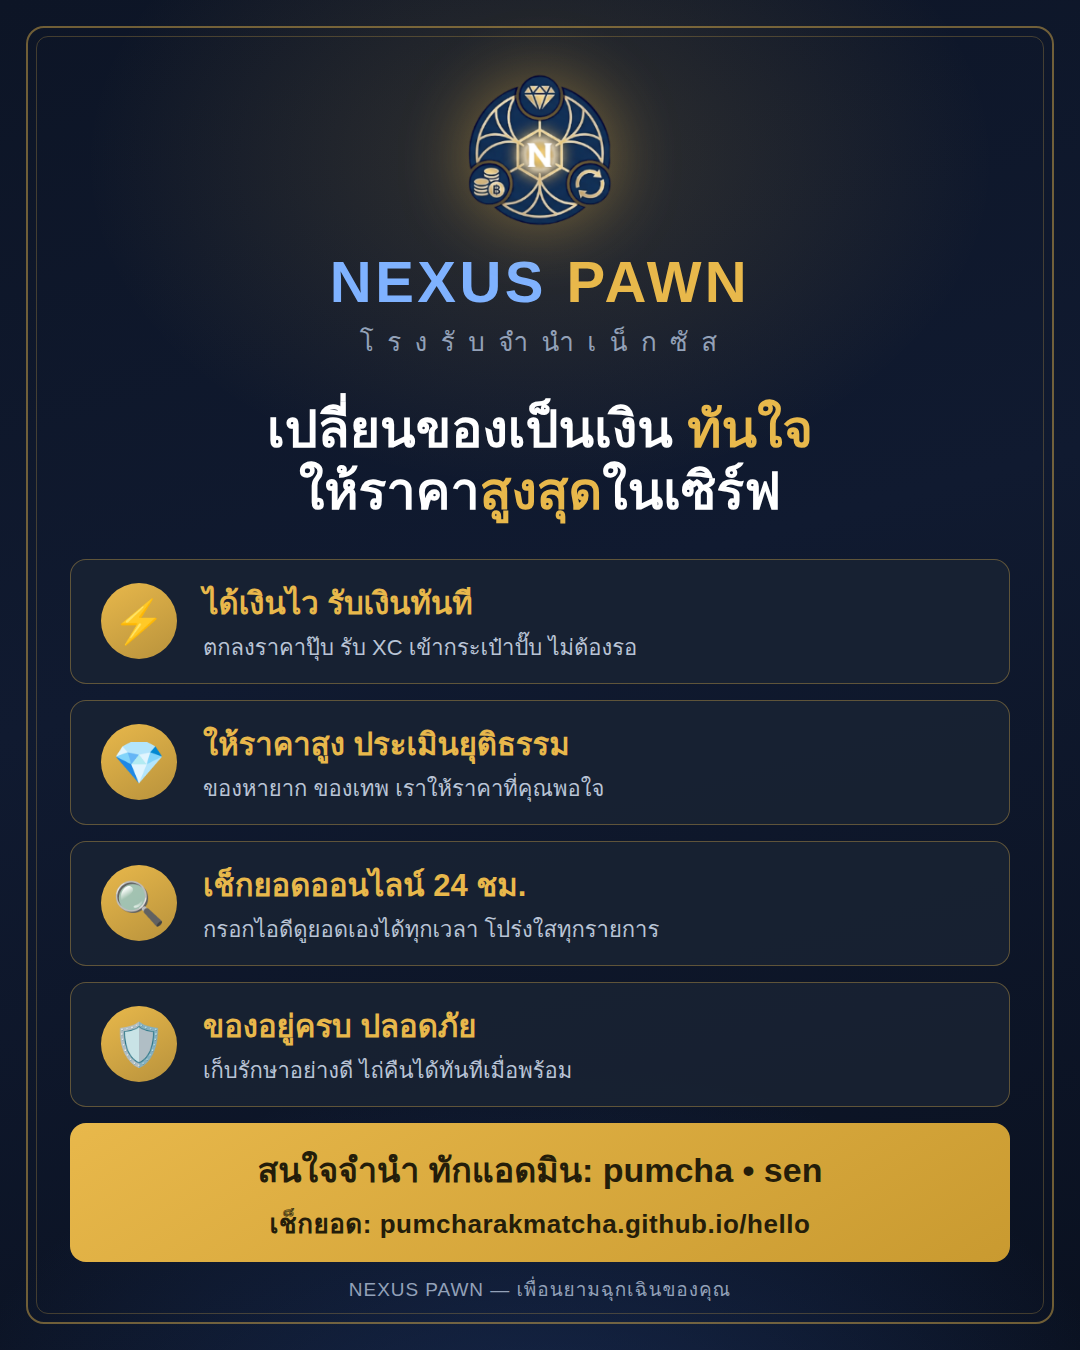
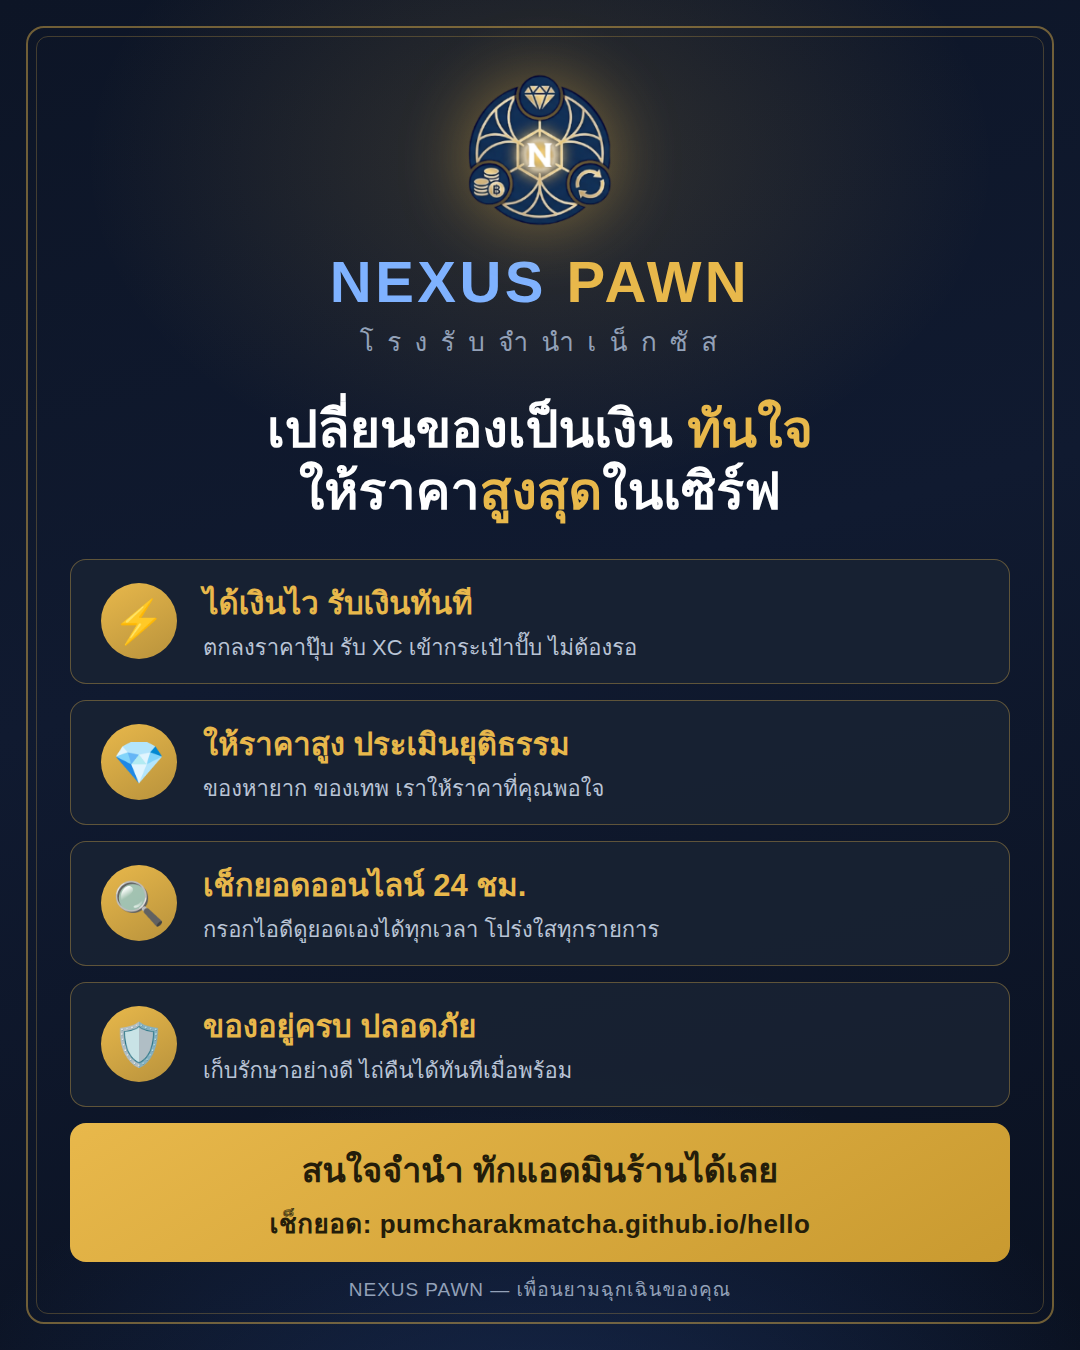
Remove admin names from ad poster CTA
Claude-Session: https://claude.ai/code/session_016xYXEuGmHTVAFWR3T4bZTG

Changed region(s): [[0.2444, 0.84, 0.7639, 0.9022]]

diff --git a/poster.html b/poster.html
@@ -99,7 +99,7 @@
   </div>
 
   <div class="cta">
-    <div class="big">สนใจจำนำ ทักแอดมิน: pumcha • sen</div>
+    <div class="big">สนใจจำนำ ทักแอดมินร้านได้เลย</div>
     <div class="url">เช็กยอด: pumcharakmatcha.github.io/hello</div>
   </div>
   <div class="foot">NEXUS PAWN — เพื่อนยามฉุกเฉินของคุณ</div>
